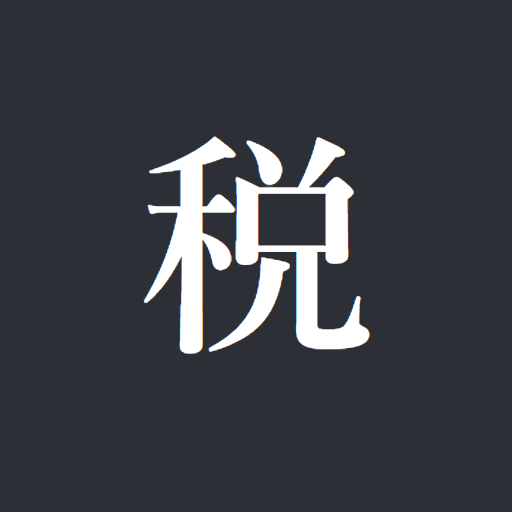
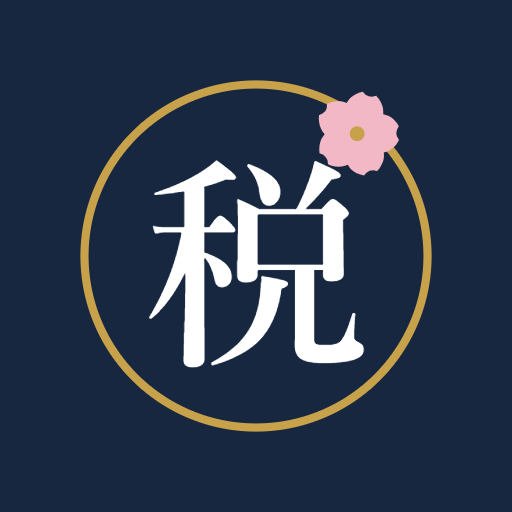
アイコンにブランド配色と桜モチーフを使う（v17、未push）
ユーザー判断で設計原則5の適用範囲を狭めた（判断ログ D-34）。
アイコンだけは紺・金・桜のブランド配色と桜モチーフを使う。
画面は従来どおりで、差し色は青1色・ブランド配色は持ち込まない。
事務所名の文字列とロゴマークは、アイコンにも入れない。

図案は紺の地に金の細い輪、中に白の明朝「税」、輪の右上に桜を1輪。

★maskable のセーフゾーン（中心から半径0.4）を実測で確かめた。
地以外の画素の最大半径は 0.392 で、0.4 を超える画素は 0。
初稿は桜を輪と同じ半径 0.335 に置いており、花の半径 0.085 と合わせて
0.42 まではみ出していた（丸く切り抜く端末で花びらが欠ける）。

作り方も変えた。人が3サイズでスクリーンショットを撮る手順をやめ、
canvas に描いて POST /__save-icon で icons/ へ書き戻す。画像ライブラリは
増やしていない。書ける先は3つのファイル名に固定し、パスは受け取らない。
開発専用で、GitHub Pages は静的配信なのでこの経路は公開先に存在しない。

アイコンは sw.js の SHELL に入っているので v16 → v17 に上げた。

★既にホーム画面に追加済みの端末でアイコンが差し替わるかは未確認。
変わらない場合は「一度削除して追加し直す」の案内が要る。

テスト346件が通る。

Changed region(s): [[0.1562, 0.1562, 0.8438, 0.8438]]

diff --git a/tools/icon-source.html b/tools/icon-source.html
@@ -4,32 +4,145 @@
 <meta charset="utf-8">
 <title>アイコンの原稿</title>
 <!--
-  icons/*.png の原稿。画像ライブラリを増やさないため、この画面を
-  ビューポートちょうどのサイズでスクリーンショットして PNG を作る。
+  icons/*.png の原稿。**画像ライブラリは増やさない**。canvas に描いて PNG を書き出す。
 
     node tools/serve.mjs
-    → http://localhost:8080/tools/icon-source.html を 512x512 / 192x192 / 180x180 で撮る
+    → http://localhost:8080/tools/icon-source.html を開き、各サイズの「保存」を押す
+    → icons/ に置き換える
 
-  事務所ブランド配色（紺・金・桜）は使わない（設計原則5）。
-  文字はホーム画面アイコンの丸い切り抜き（maskable のセーフゾーン＝中央80%）に収まる大きさにしている。
+  ★2026-08-10、事務所ブランド配色（紺・金・桜）と桜モチーフを使う判断に変えた（判断ログ D-34）。
+    それ以前は「設計原則5のためブランド配色を使わない」として、濃いグレーに白の「税」だけだった。
+    画面側（styles/app.css）は従来どおり差し色は青1色で、ブランド配色は持ち込まない。
+
+  ★maskable のセーフゾーンは中央80%（＝中心から半径0.4）。
+    円形に切り抜かれても欠けないよう、描くものはすべて半径0.4の内側に収める。
 -->
 <style>
-  html, body { margin: 0; padding: 0; width: 100%; height: 100%; overflow: hidden; }
   body {
-    display: flex;
-    align-items: center;
-    justify-content: center;
-    background: #2c2f36;
+    margin: 0;
+    padding: 2rem;
+    background: #f5f5f7;
+    font-family: system-ui, sans-serif;
+    color: #16181d;
   }
-  span {
-    color: #ffffff;
-    font-family: "Yu Mincho", "Hiragino Mincho ProN", "Noto Serif JP", serif;
-    font-size: 46vmin;
-    font-weight: 600;
-    line-height: 1;
-    user-select: none;
-  }
+  h1 { font-size: 1.125rem; margin: 0 0 1.5rem; }
+  .row { display: flex; gap: 2rem; align-items: flex-end; flex-wrap: wrap; }
+  figure { margin: 0; }
+  figcaption { font-size: 0.75rem; color: #71757e; margin-top: 0.5rem; }
+  canvas { display: block; box-shadow: 0 1px 2px rgba(0,0,0,.08), 0 6px 20px rgba(0,0,0,.06); }
+  .maru { border-radius: 50%; }
+  button { margin-top: 0.5rem; font-size: 0.8125rem; padding: 0.375rem 0.75rem; }
 </style>
 </head>
-<body><span>税</span></body>
+<body>
+<h1>税額ポケット — アイコンの原稿</h1>
+<div class="row" id="out"></div>
+
+<script>
+// 事務所ブランド配色
+const KON = "#16273f";   // 紺（地）
+const KIN = "#c8a24a";   // 金（輪）
+const SAKURA = "#f2b8c6"; // 桜（花）
+const SHIRO = "#ffffff";
+
+/** 桜の花びら1枚。中心から上へ伸ばす。先端に浅い切れ込みを入れる */
+function hanabira(ctx, r) {
+  ctx.beginPath();
+  ctx.moveTo(0, 0);
+  ctx.bezierCurveTo(r * 0.52, -r * 0.18, r * 0.60, -r * 0.72, r * 0.16, -r * 0.96);
+  ctx.quadraticCurveTo(0, -r * 0.84, -r * 0.16, -r * 0.96); // 先端の切れ込み
+  ctx.bezierCurveTo(-r * 0.60, -r * 0.72, -r * 0.52, -r * 0.18, 0, 0);
+  ctx.closePath();
+  ctx.fill();
+}
+
+/** 桜の花（5弁） */
+function sakura(ctx, cx, cy, r, kaiten) {
+  ctx.save();
+  ctx.translate(cx, cy);
+  ctx.rotate(kaiten);
+  ctx.fillStyle = SAKURA;
+  for (let i = 0; i < 5; i++) {
+    ctx.save();
+    ctx.rotate((i * Math.PI * 2) / 5);
+    hanabira(ctx, r);
+    ctx.restore();
+  }
+  // 花芯
+  ctx.fillStyle = KIN;
+  ctx.beginPath();
+  ctx.arc(0, 0, r * 0.17, 0, Math.PI * 2);
+  ctx.fill();
+  ctx.restore();
+}
+
+function draw(canvas, S) {
+  canvas.width = S;
+  canvas.height = S;
+  const ctx = canvas.getContext("2d");
+
+  // 地。maskable なので隅まで塗る
+  ctx.fillStyle = KON;
+  ctx.fillRect(0, 0, S, S);
+
+  const c = S / 2;
+
+  // 金の輪。セーフゾーン（半径0.4）の内側に置く
+  ctx.strokeStyle = KIN;
+  ctx.lineWidth = S * 0.016;
+  ctx.beginPath();
+  ctx.arc(c, c, S * 0.335, 0, Math.PI * 2);
+  ctx.stroke();
+
+  // 「税」。明朝で、輪の内側に収める
+  ctx.fillStyle = SHIRO;
+  ctx.textAlign = "center";
+  ctx.textBaseline = "middle";
+  ctx.font = `600 ${S * 0.44}px "Yu Mincho", "Hiragino Mincho ProN", "Noto Serif JP", "MS Mincho", serif`;
+  // 明朝は字面が上に寄るので、わずかに下げて光学的な中心を合わせる
+  ctx.fillText("税", c, c + S * 0.015);
+
+  // 桜を輪に重ねる。右上。
+  // ★中心を半径0.31に置く（0.31＋花の半径0.085＝0.395 でセーフゾーン0.4の内側）。
+  //   輪（0.335）はこの花を貫くので、離れて見えることはない。
+  const kaku = -Math.PI * 0.28;
+  sakura(ctx, c + Math.cos(kaku) * S * 0.31, c + Math.sin(kaku) * S * 0.31, S * 0.085, 0.3);
+}
+
+const SIZES = [
+  { size: 512, file: "icon-512.png" },
+  { size: 192, file: "icon-192.png" },
+  { size: 180, file: "apple-touch-icon-180.png" },
+];
+
+const out = document.getElementById("out");
+for (const s of SIZES) {
+  const fig = document.createElement("figure");
+  const cv = document.createElement("canvas");
+  cv.className = "maru";
+  cv.style.width = Math.min(s.size, 256) + "px";
+  cv.style.height = Math.min(s.size, 256) + "px";
+  draw(cv, s.size);
+  const cap = document.createElement("figcaption");
+  cap.textContent = `${s.size}×${s.size} — ${s.file}（丸く切り抜いた見え方）`;
+  const btn = document.createElement("button");
+  btn.textContent = "保存";
+  btn.onclick = () => {
+    const a = document.createElement("a");
+    a.href = cv.toDataURL("image/png");
+    a.download = s.file;
+    a.click();
+  };
+  fig.append(cv, cap, btn);
+  out.append(fig);
+}
+
+// 書き出し用。開発時にコンソール／自動化から呼ぶ
+window.png_dataurl = (size) => {
+  const cv = document.createElement("canvas");
+  draw(cv, size);
+  return cv.toDataURL("image/png");
+};
+</script>
+</body>
 </html>

diff --git a/sw.js b/sw.js
@@ -10,7 +10,7 @@
 
 // ★src/version.js の APP_VERSION と同じ文字列にする（tests/version.test.js が一致を検査する）。
 //   画面に出す版は APP_VERSION（＝シェルの中身）であって、この定数ではない。理由は src/version.js に書いた。
-const CACHE_VERSION = "v16";
+const CACHE_VERSION = "v17";
 const SHELL_CACHE = `tax-pocket-shell-${CACHE_VERSION}`;
 const DATA_CACHE = "tax-pocket-data"; // 版を付けない。シェルの版を上げてもデータは残す
 

diff --git a/src/version.js b/src/version.js
@@ -7,7 +7,7 @@
 //   反映されていない端末はそのまま反映されていないと見える。
 //
 // ★sw.js の CACHE_VERSION と必ず同じ文字列にする（tests/version.test.js が一致を検査する）。
-export const APP_VERSION = "v16";
+export const APP_VERSION = "v17";
 
 // 「更新の確認」画面に並べる数値表。
 //

diff --git a/docs/判断ログ.md b/docs/判断ログ.md
@@ -1536,6 +1536,49 @@ D-04 が求めた「評価額が入力値である旨の画面への明示」に
 
 ---
 
+## D-34 アイコンにだけ事務所のブランド配色と桜モチーフを使う（設計原則5の一部を覆す）
+
+2026年8月10日（令和8年8月10日）。**ユーザー判断で、設計原則5の適用範囲を狭めた。**
+
+- **それまで**：アイコンは濃いグレー地に白い明朝の「税」1文字だけ。
+  `tools/icon-source.html` に「事務所ブランド配色（紺・金・桜）は使わない（設計原則5）」と
+  明記して作ってあった
+- **判断**：**ホーム画面のアイコンには紺・金・桜のブランド配色と桜モチーフを使う。**
+  画面（`styles/app.css`）は従来どおりで、差し色は青1色・ブランド配色は持ち込まない
+- **残す線引き**：**事務所名の文字列とロゴマークは、アイコンにも入れない。**
+  原則5が守ろうとしていた「一般の人が誤った税額を得たときに事務所の責任になる」という懸念のうち、
+  **特定に直結するのは名前とロゴ**であり、配色とモチーフはそこまでの特定力を持たない、という整理
+- ★**画面とアイコンで方針が違う。片方を見てもう片方を直さないこと。**
+  `CLAUDE.md` の原則5と「見た目」の両方に、この分岐を書いた
+
+### 図案
+
+紺（`#16273f`）の地に金（`#c8a24a`）の細い輪、中に白の明朝「税」、輪の右上に桜（`#f2b8c6`）を1輪重ねる。
+
+- **maskable のセーフゾーン（中心から半径0.4）を実測で確かめた。** 地以外の画素の最大半径は
+  **0.392**で、0.4を超える画素は0。初稿は桜を輪と同じ半径0.335に置いており、
+  花の半径0.085と合わせて0.42まではみ出していた（**丸く切り抜く端末で花びらが欠ける**）
+- 「税」は明朝の字面が上に寄るので、光学的な中心に合わせて `S*0.015` だけ下げている
+
+### 作り方を「スクリーンショット」から「canvas で描いて書き戻す」に変えた
+
+- それまでは `tools/icon-source.html` をブラウザで開き、**人が3サイズでスクリーンショットを撮る**手順だった
+- canvas に描いて `toDataURL` で PNG を作り、`tools/serve.mjs` に足した `POST /__save-icon` で
+  `icons/` へ書き戻す。**画像ライブラリは増やしていない**（Node と canvas の標準機能だけ）
+- 書ける先は3つのファイル名に固定し、パスは受け取らない。**開発専用**で、
+  GitHub Pages は静的配信なのでこの経路は公開先に存在しない（`sw.js` の `SHELL` にも入らない）
+- 利点は再現性。次に図案を直すときも、同じ3枚が同じ手順で出る
+
+### 版
+
+アイコンは `sw.js` の `SHELL`（版付き cache-first）に入っているので、**v16 → v17 に上げた**。
+
+★**既にホーム画面に追加済みの端末でアイコンが差し替わるかは未確認。**
+iOS は追加時にアイコンを取り込む挙動が知られているが、こちらで確かめていない。
+**変わらない場合、職員には「一度削除して追加し直す」を案内することになる**（配布から日が浅い今なら傷は浅い）。
+
+---
+
 ## セキュリティ診断の記録
 
 グローバル規約の実施契機のうち **①職員に配る ③外部と通信する経路** の2つに該当する。

diff --git a/CLAUDE.md b/CLAUDE.md
@@ -22,7 +22,8 @@
 2. **入力値をURLに乗せない** — 結果共有機能を作る場合の禁止事項。URLは履歴・アクセスログに残る
 3. **数値表もリンクURLもコードに埋めない** — すべて `data/` の外部データファイルに置く。改正時の作業を「1ファイル差し替え」に落とし、税務がわかる職員なら誰でもできる状態にする（属人化対策）
 4. **オフラインで動く** — ロジックと数値表は端末にキャッシュし、オンライン時に裏で最新を取りに行く。関与先で電波が悪くても直近版で動く
-5. **事務所名・ロゴを入れない ＋ 免責を1行置く** — 事務所名を出すと「事務所が公開している税額計算ツール」になり、一般の人が使って誤った税額を得たときの対外的な責任が生じる
+5. **画面に事務所名・ロゴを入れない ＋ 免責を1行置く** — 事務所名を出すと「事務所が公開している税額計算ツール」になり、一般の人が使って誤った税額を得たときの対外的な責任が生じる
+   - ★**アイコンだけは例外**（2026-08-10 ユーザー判断・判断ログ D-34）。ホーム画面のアイコンは紺・金・桜のブランド配色と桜モチーフを使う。**事務所名の文字列とロゴマークは、アイコンにも入れない**
 6. **リンクには適用年度を必ず表示する**（例「令和8年分 源泉徴収税額表」）＋ リンク集の最終更新日を画面に出す
 7. **数値そのものをアプリに持つのは Rule of Three 後** — リンクで運用して「毎回開くページ」が3つ以上見えてから、その数個だけ取り込む
 
@@ -81,8 +82,11 @@
 
 ## 見た目
 
-内部ツールの4原則（グローバル CLAUDE.md）に従う。**事務所ブランド配色（紺・金・桜）は持ち込まない**（原則5と同じ理由で、公開物では特に守る）。
-ダークモードは実装しない。
+内部ツールの4原則（グローバル CLAUDE.md）に従う。**画面には事務所ブランド配色（紺・金・桜）を持ち込まない**。
+差し色は青1色のまま。ダークモードは実装しない。
+
+**アイコン（`icons/*.png`）だけはブランド配色と桜モチーフを使う**（2026-08-10・判断ログ D-34）。
+原稿は `tools/icon-source.html`。**画面とアイコンで方針が違うので、片方を見てもう片方を直さないこと。**
 
 ---
 
